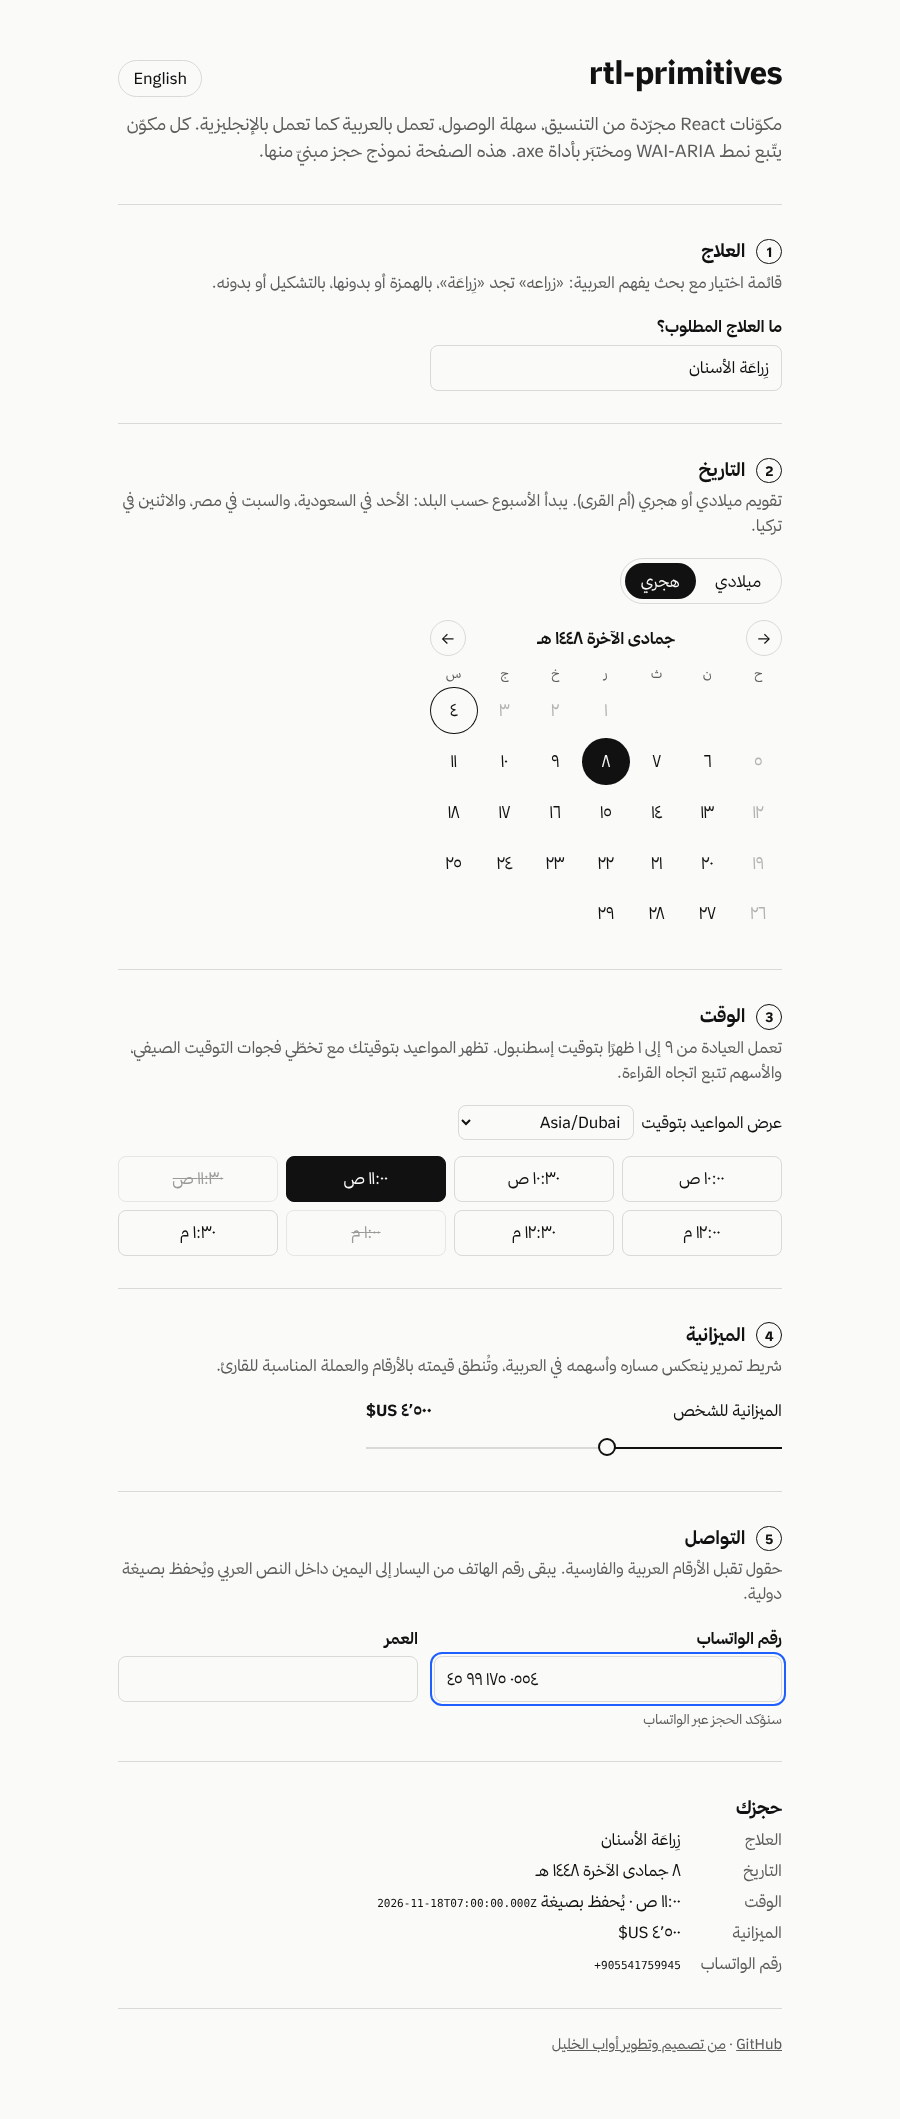
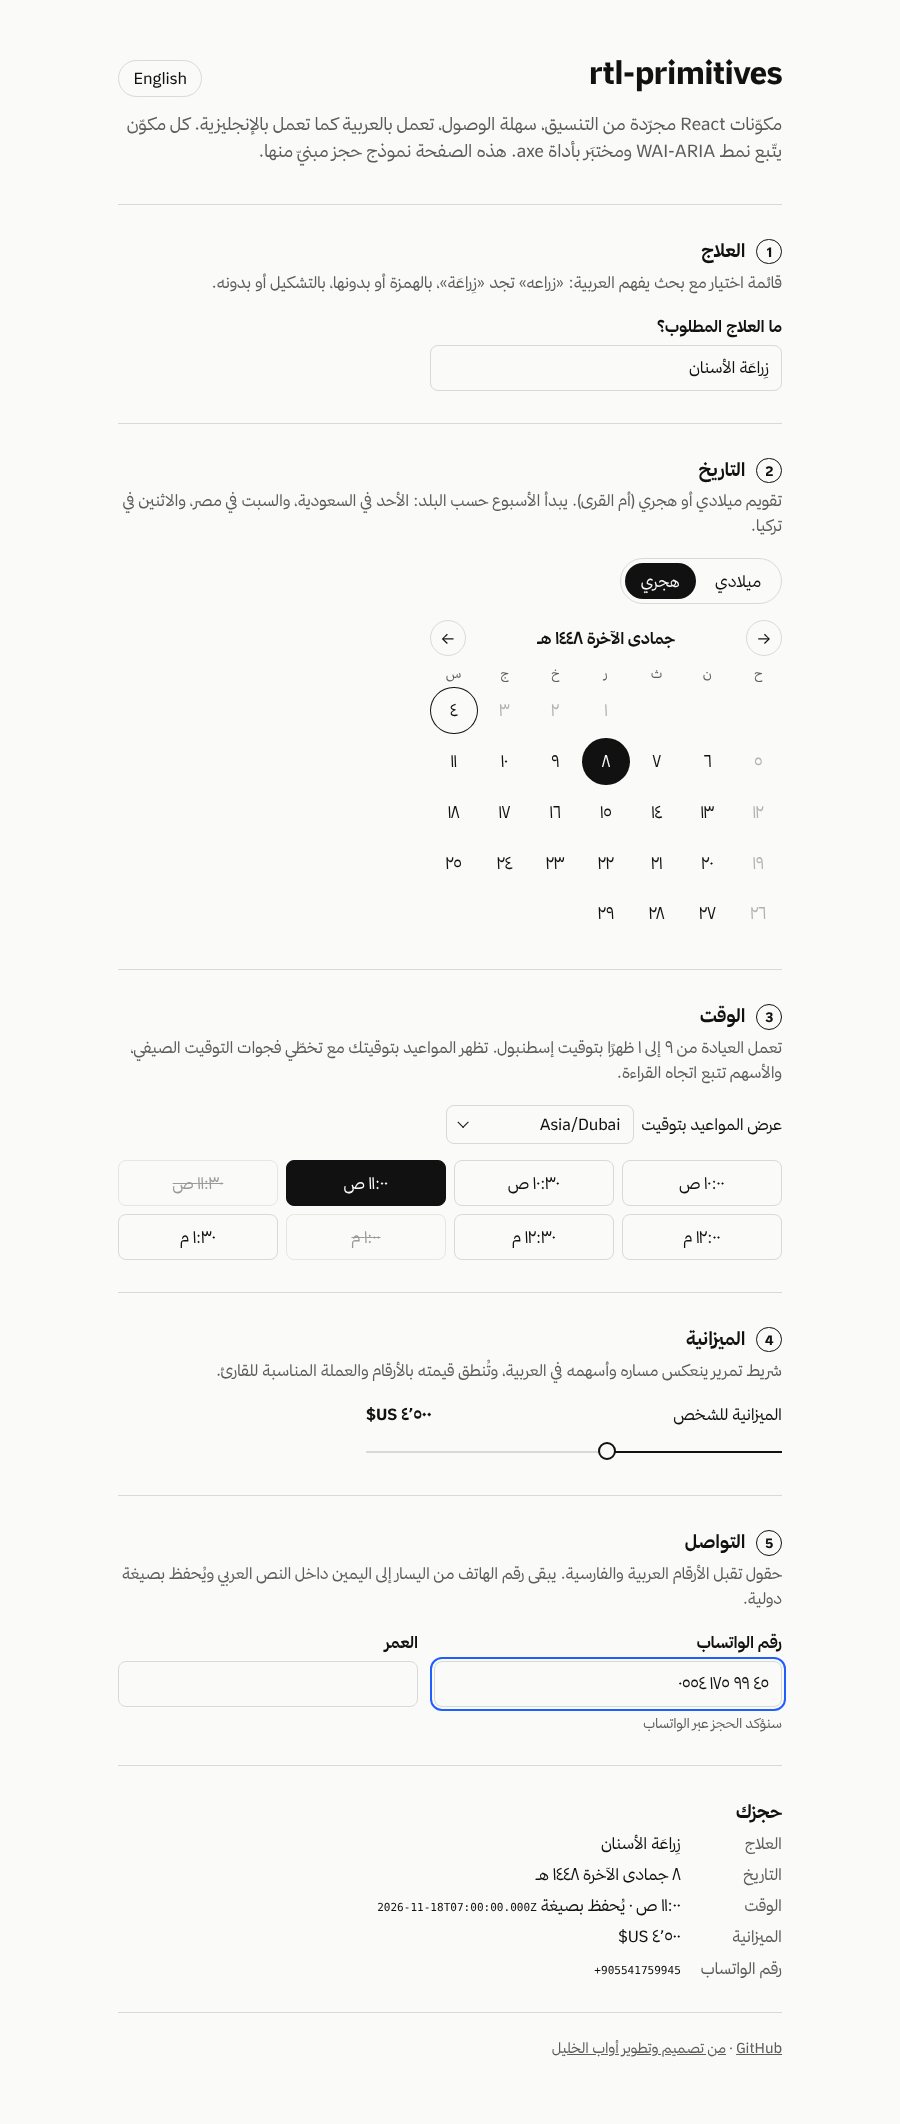
Fix phone digit order and alignment in RTL; follow live dir changes
- PhoneField: Arabic-Indic digit groups were displayed in reverse because
  they are Arabic Number characters in the UBA, so separating spaces
  resolved RTL even inside dir=ltr. Override bidi in the field and align
  to the page's start edge.
- useDirection now re-reads the direction when any dir attribute changes,
  so components mounted before <html dir> is set (the usual order on a
  language switch) pick up RTL keyboard handling.
- Demo: custom select chevron on the logical end side with room for it.

Claude-Session: https://claude.ai/code/session_01YDGonSwi8W2LCgehGTFCZR

diff --git a/src/fields.tsx b/src/fields.tsx
@@ -1,4 +1,5 @@
-import { useId, useState, type InputHTMLAttributes, type ReactNode } from "react";
+import { useId, useRef, useState, type CSSProperties, type InputHTMLAttributes, type ReactNode } from "react";
+import { useDirection, type Direction } from "./direction";
 
 const toWesternDigits = (s: string) =>
   s.replace(/[٠-٩۰-۹]/g, (d) => {
@@ -100,6 +101,8 @@ export function NumberField({ label, hint, error, className, value, defaultValue
 }
 
 export interface PhoneFieldProps extends FieldBase, Omit<InputHTMLAttributes<HTMLInputElement>, "onChange" | "type" | "dir"> {
+  /** Page direction. Detected from the nearest `dir` when omitted; it only decides which side the number is aligned to. */
+  dir?: Direction;
   /** Used when the number has no + or 00 prefix, e.g. "+90". */
   countryCode?: string;
   onPhoneChange?: (phone: { e164: string; valid: boolean; raw: string }) => void;
@@ -107,21 +110,34 @@ export interface PhoneFieldProps extends FieldBase, Omit<InputHTMLAttributes<HTM
 }
 
 /**
- * A phone input that stays left-to-right inside RTL pages (so "+" and the digits keep their order),
+ * Styles that keep a phone number in typed order. `dir="ltr"` alone is not enough: Arabic-Indic digits
+ * are "Arabic Number" characters in the Unicode Bidi Algorithm, so spaces between digit groups resolve
+ * right-to-left and "٠٥٥٤ ١٧٥ ٩٩" displays as "٩٩ ١٧٥ ٠٥٥٤". Overriding the bidi algorithm for the
+ * field keeps every character in the order it was typed. The value is aligned to the page's start edge.
+ */
+export function phoneInputStyle(pageDir: Direction): CSSProperties {
+  return { direction: "ltr", unicodeBidi: "bidi-override", textAlign: pageDir === "rtl" ? "right" : "left" };
+}
+
+/**
+ * A phone input that keeps "+" and every digit group in typed order inside RTL pages,
  * accepts Arabic-Indic and Persian digits, and reports the number in E.164.
  */
-export function PhoneField({ label, hint, error, className, countryCode = "", onPhoneChange, invalidMessage = "Enter a full phone number", ...rest }: PhoneFieldProps) {
+export function PhoneField({ label, hint, error, className, countryCode = "", onPhoneChange, invalidMessage = "Enter a full phone number", dir, ...rest }: PhoneFieldProps) {
   const id = useId().replace(/:/g, "");
+  const root = useRef<HTMLDivElement>(null);
+  const pageDir = useDirection(root, dir);
   const [raw, setRaw] = useState(String(rest.defaultValue ?? ""));
   const [touched, setTouched] = useState(false);
   const phone = normalizePhone(raw, countryCode);
   const message = error ?? (touched && raw.trim() !== "" && !phone.valid ? invalidMessage : null);
 
   return (
-    <div className={className} data-rtlp-field="">
+    <div ref={root} className={className} data-rtlp-field="">
       <label htmlFor={`${id}-input`}>{label}</label>
       <input
         {...rest}
+        style={{ ...phoneInputStyle(pageDir), ...rest.style }}
         defaultValue={undefined}
         id={`${id}-input`}
         type="tel"

diff --git a/demo/styles.css b/demo/styles.css
@@ -39,7 +39,13 @@ button, input, select { font: inherit; color: inherit; }
 .cbx [role="status"] { color: var(--muted); font-size: 0.9rem; }
 
 .zone { display: inline-flex; gap: 0.5rem; align-items: center; margin-block-end: 1rem; }
-.zone select { border: 1px solid var(--line); border-radius: 0.5rem; padding: 0.35rem 0.5rem; background: transparent; }
+/* Native select arrows ignore direction in some browsers and sit flush against the border.
+   Draw our own chevron on the logical end side and reserve room for it with padding-inline-end.
+   The chevron itself points down in both directions, so its borders stay physical. */
+.select { position: relative; display: inline-flex; }
+.select select { appearance: none; -webkit-appearance: none; border: 1px solid var(--line); border-radius: 0.5rem; padding-block: 0.4rem; padding-inline: 0.75rem 2.25rem; background: transparent; cursor: pointer; }
+.select::after { content: ""; position: absolute; inset-inline-end: 0.85rem; inset-block-start: 50%; inline-size: 0.45rem; block-size: 0.45rem; border-right: 1.5px solid currentColor; border-bottom: 1.5px solid currentColor; transform: translateY(-70%) rotate(45deg); pointer-events: none; }
+.select select:hover { border-color: var(--ink); }
 
 .slots [role="grid"] { display: grid; gap: 0.5rem; }
 .slots [role="row"] { display: grid; grid-template-columns: repeat(4, minmax(0, 1fr)); gap: 0.5rem; }

diff --git a/src/direction.ts b/src/direction.ts
@@ -11,11 +11,22 @@ export function getDirection(el: Element | null): Direction {
   return css === "rtl" ? "rtl" : "ltr";
 }
 
-/** React hook form of `getDirection`. Pass `dir` to override detection. */
+/**
+ * React hook form of `getDirection`. It re-reads the direction whenever any `dir` attribute in the
+ * document changes, so a language switch that sets `<html dir>` after this component mounted
+ * (a common order: children's effects run before the app's) is still picked up.
+ * Pass `dir` to override detection.
+ */
 export function useDirection(ref: RefObject<Element | null>, dir?: Direction): Direction {
   const [detected, setDetected] = useState<Direction>(dir ?? "ltr");
   useLayoutEffect(() => {
-    if (!dir) setDetected(getDirection(ref.current));
+    if (dir) return;
+    const update = () => setDetected(getDirection(ref.current));
+    update();
+    if (typeof MutationObserver === "undefined" || typeof document === "undefined") return;
+    const observer = new MutationObserver(update);
+    observer.observe(document.documentElement, { attributes: true, attributeFilter: ["dir"], subtree: true });
+    return () => observer.disconnect();
   }, [ref, dir]);
   return dir ?? detected;
 }

diff --git a/test/direction.test.tsx b/test/direction.test.tsx
@@ -1,0 +1,23 @@
+import { act, render, screen } from "@testing-library/react";
+import { useRef } from "react";
+import { afterEach, describe, expect, it } from "vitest";
+import { useDirection } from "../src/direction";
+
+function Probe() {
+  const ref = useRef<HTMLSpanElement>(null);
+  return <span ref={ref} data-testid="probe">{useDirection(ref)}</span>;
+}
+
+afterEach(() => document.documentElement.removeAttribute("dir"));
+
+describe("useDirection", () => {
+  it("follows a dir change on <html> made after mount", async () => {
+    render(<Probe />);
+    expect(screen.getByTestId("probe")).toHaveTextContent("ltr");
+    await act(async () => {
+      document.documentElement.setAttribute("dir", "rtl");
+      await new Promise((r) => setTimeout(r, 0));
+    });
+    expect(screen.getByTestId("probe")).toHaveTextContent("rtl");
+  });
+});

diff --git a/test/fields.test.tsx b/test/fields.test.tsx
@@ -77,8 +77,16 @@ describe("PhoneField", () => {
     );
     const input = screen.getByLabelText("رقم الجوال");
     expect(input).toHaveAttribute("dir", "ltr");
+    // Arabic-Indic digit groups would otherwise reorder; the value is aligned to the RTL start edge.
+    expect(input.style.unicodeBidi).toBe("bidi-override");
+    expect(input.style.textAlign).toBe("right");
     await userEvent.type(input, "٠٥٠١٢٣٤٥٦٧");
     expect(onPhoneChange).toHaveBeenLastCalledWith({ e164: "+966501234567", valid: true, raw: "٠٥٠١٢٣٤٥٦٧" });
+  });
+
+  it("aligns left on an LTR page", () => {
+    render(<PhoneField label="Phone" />);
+    expect(screen.getByLabelText("Phone").style.textAlign).toBe("left");
   });
 
   it("has no axe violations, including the error state", async () => {

diff --git a/src/index.ts b/src/index.ts
@@ -5,5 +5,5 @@ export { generateSlots, formatSlot, zonedTimeToInstant, zoneOffsetMinutes, wallC
 export { useSlotGrid, TimeSlotPicker, type UseSlotGridOptions, type TimeSlotPickerProps } from "./time-slot-picker";
 export { useTabs, Tabs, type UseTabsOptions, type TabsProps } from "./tabs";
 export { useSlider, Slider, type UseSliderOptions, type SliderProps } from "./slider";
-export { parseLocalizedNumber, normalizePhone, NumberField, PhoneField, type NumberFieldProps, type PhoneFieldProps } from "./fields";
+export { parseLocalizedNumber, normalizePhone, phoneInputStyle, NumberField, PhoneField, type NumberFieldProps, type PhoneFieldProps } from "./fields";
 export { useCalendar, Calendar, monthOf, firstDayOfWeek, addDays, type ISODate, type UseCalendarOptions, type CalendarProps } from "./calendar";

diff --git a/demo/main.tsx b/demo/main.tsx
@@ -168,13 +168,15 @@ function App() {
         <p>{s.step3Body}</p>
         <label className="zone">
           {s.zone}{" "}
-          <select value={zone} onChange={(e) => setZone(e.target.value)}>
-            {zones.map((z) => (
-              <option key={z} value={z}>
-                {z.replace("_", " ")}
-              </option>
-            ))}
-          </select>
+          <span className="select">
+            <select value={zone} onChange={(e) => setZone(e.target.value)}>
+              {zones.map((z) => (
+                <option key={z} value={z}>
+                  {z.replace("_", " ")}
+                </option>
+              ))}
+            </select>
+          </span>
         </label>
         <TimeSlotPicker
           className="slots"

diff --git a/README.md b/README.md
@@ -64,11 +64,11 @@ A grid of bookable times for a business in one time zone and a visitor in anothe
 
 - Both accept Western, Arabic-Indic (٠-٩) and Persian (۰-۹) digits, plus the Arabic decimal (٫) and thousands (٬) separators.
 - `NumberField` shows the value in the viewer's locale on blur, clamps it to `minValue`/`maxValue`, and announces invalid input.
-- `PhoneField` stays `dir="ltr"` inside RTL pages so "+" and the digits keep their order. It reports `{ e164, valid }` and adds `countryCode` to local numbers.
+- `PhoneField` keeps "+" and every digit group in typed order inside RTL pages, and aligns to the page's start edge. `dir="ltr"` alone isn't enough here. Arabic-Indic digits are *Arabic Number* characters in the Unicode Bidi Algorithm, so the spaces between groups resolve right-to-left and "٠٥٥٤ ١٧٥ ٩٩" displays as "٩٩ ١٧٥ ٠٥٥٤". The field overrides the bidi algorithm (`phoneInputStyle`) to prevent that. It reports `{ e164, valid }` and adds `countryCode` to local numbers.
 
 ### Helpers
 
-`normalizeForSearch`, `matchesSearch`, `parseLocalizedNumber`, `normalizePhone`, `generateSlots`, `zonedTimeToInstant`, `formatSlot`, `monthOf`, `firstDayOfWeek`, `getDirection` and `useDirection` are exported for use on their own.
+`normalizeForSearch`, `matchesSearch`, `parseLocalizedNumber`, `normalizePhone`, `generateSlots`, `zonedTimeToInstant`, `formatSlot`, `monthOf`, `firstDayOfWeek`, `getDirection`, `useDirection` (which follows `dir` changes made after mount, such as a language switch) and `phoneInputStyle` are exported for use on their own.
 
 ## Usage
 
